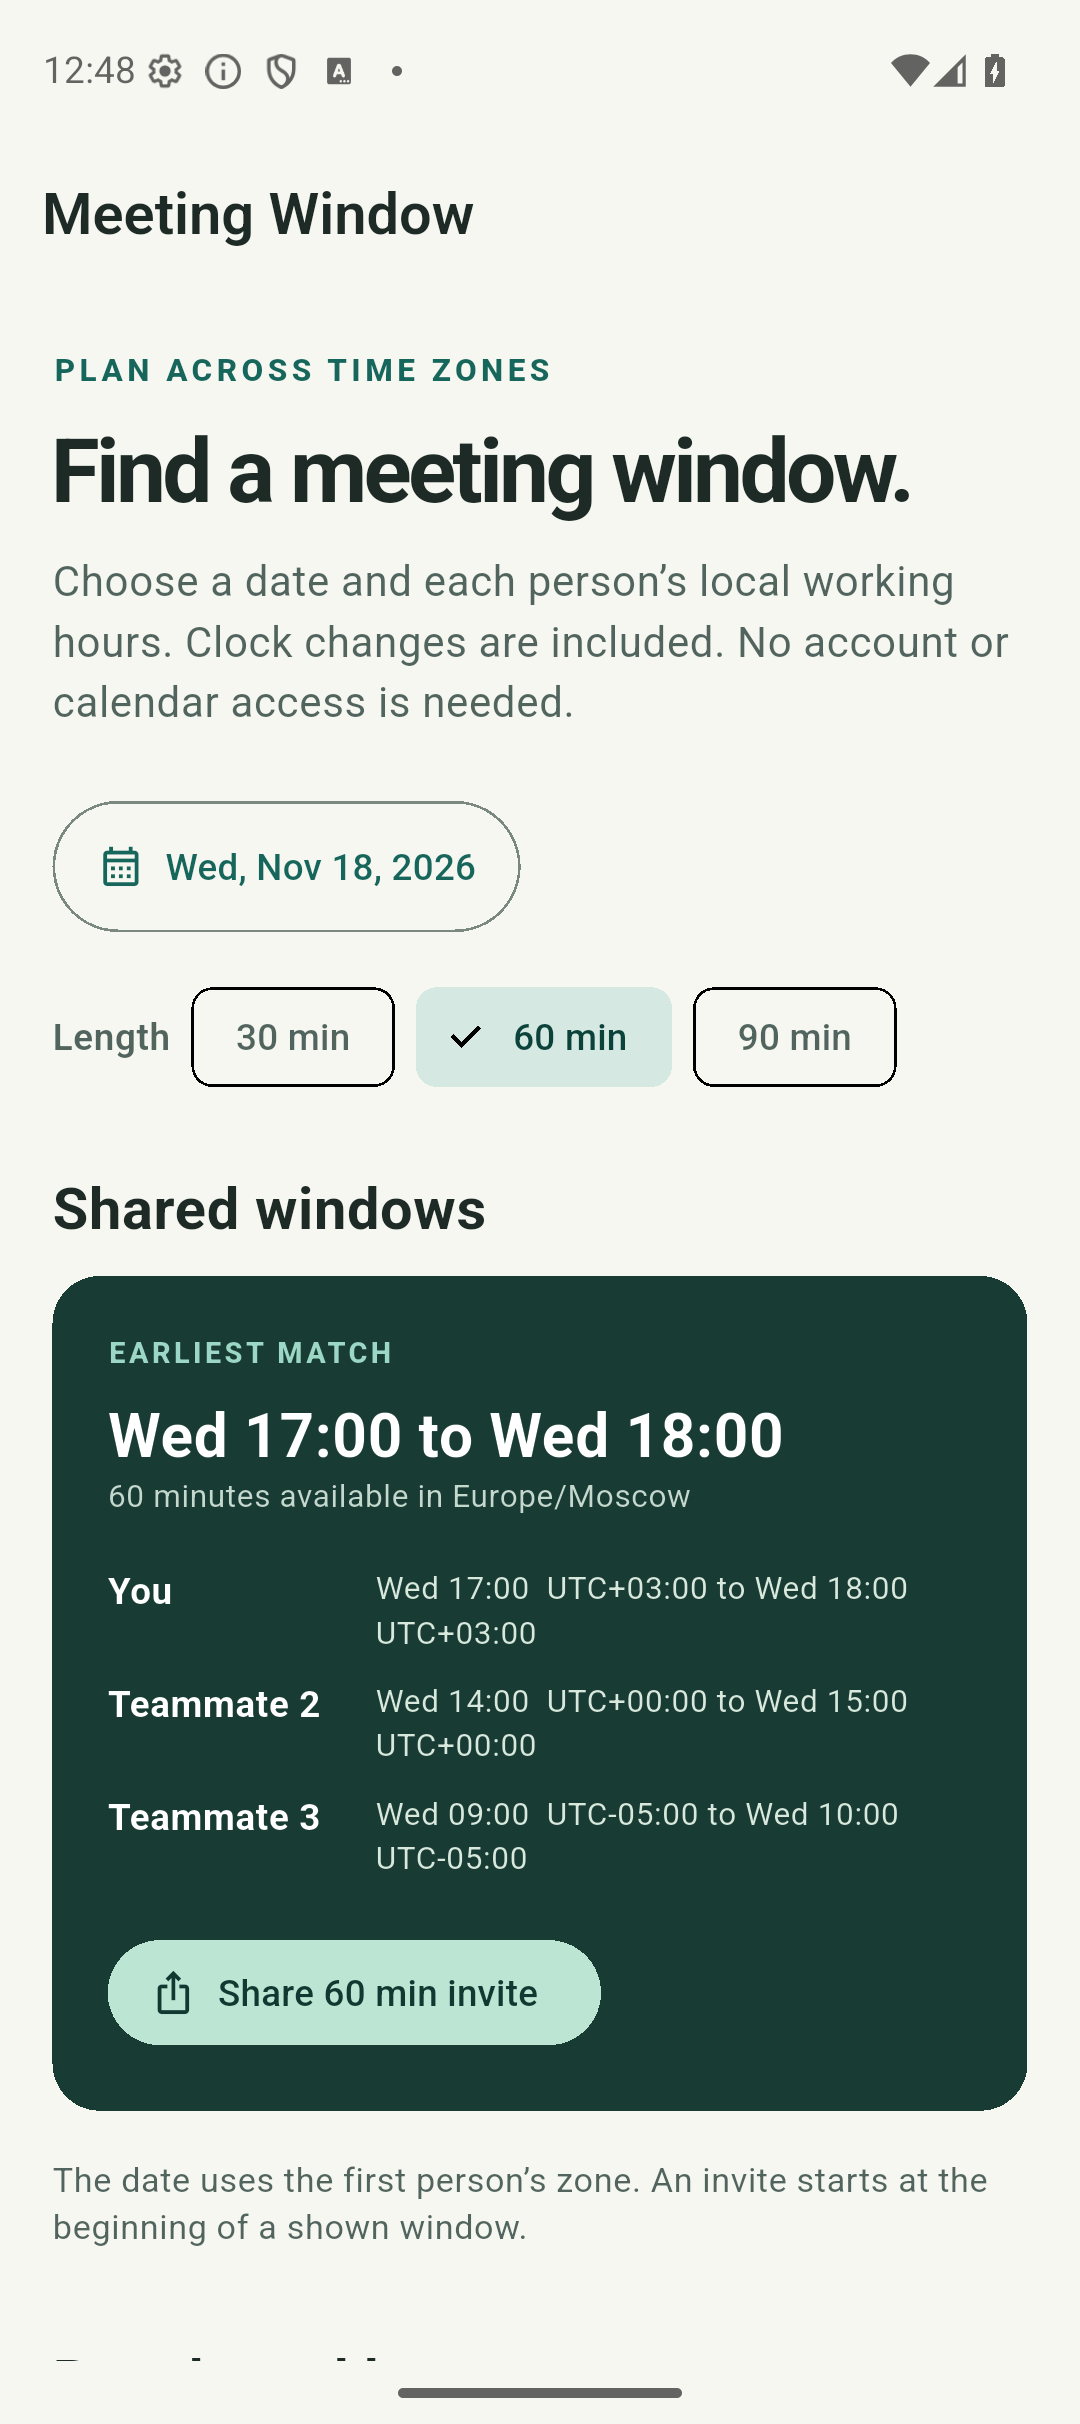
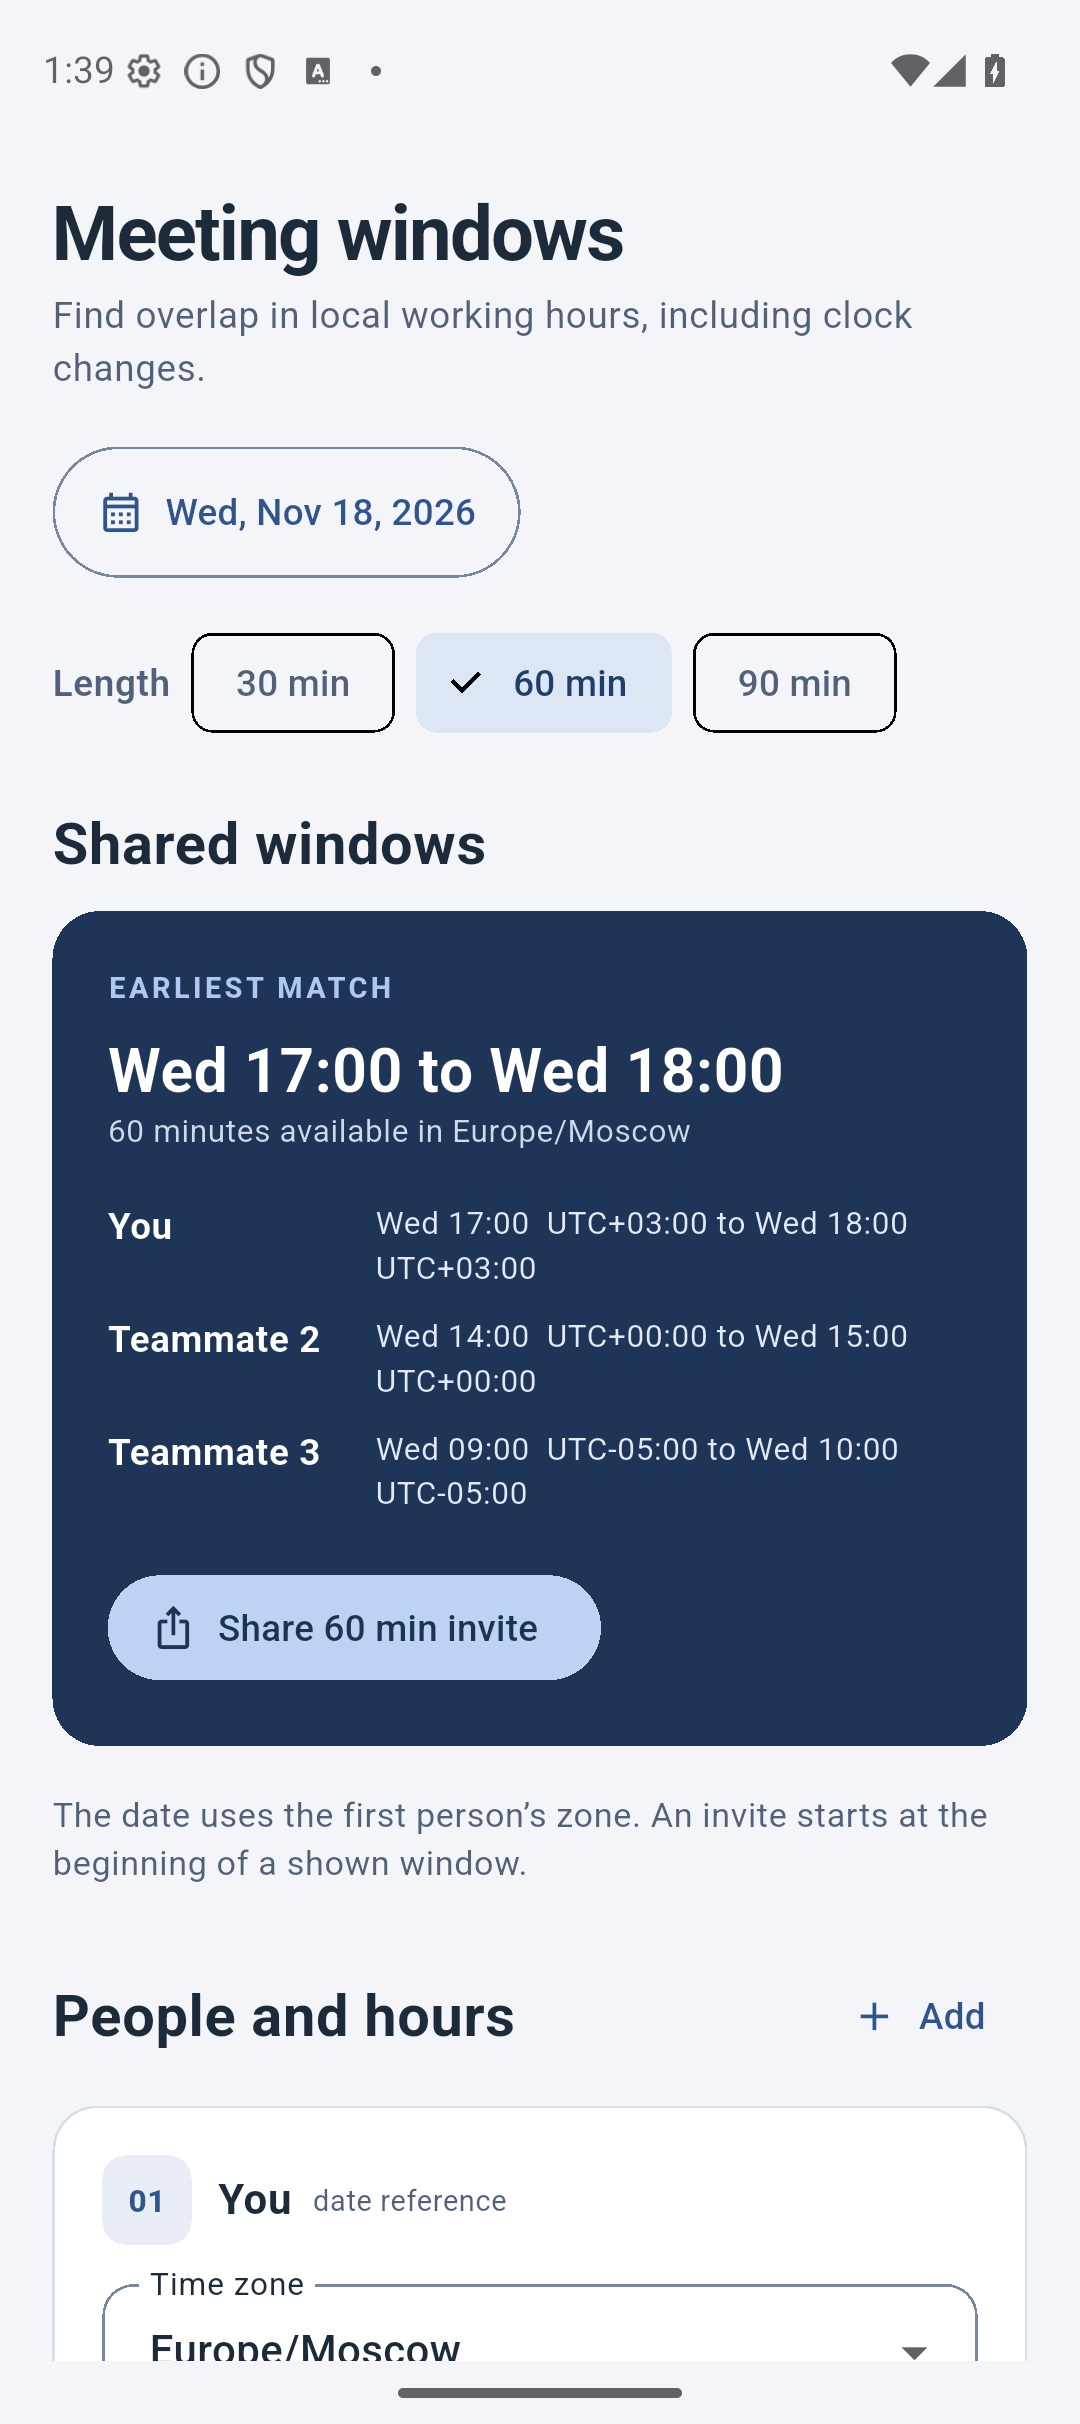
Focus meeting planner on the working window

diff --git a/lib/widgets.dart b/lib/widgets.dart
@@ -2,9 +2,9 @@ import 'package:material_ui/material_ui.dart';
 
 import 'window_finder.dart';
 
-const ink = Color(0xFF1D2A26);
-const muted = Color(0xFF52645E);
-const green = Color(0xFF17665B);
+const ink = Color(0xFF1D2A3A);
+const muted = Color(0xFF526179);
+const blue = Color(0xFF31548B);
 
 class PlannerContent extends StatelessWidget {
   const PlannerContent({
@@ -37,41 +37,31 @@ class PlannerContent extends StatelessWidget {
     final wide = MediaQuery.sizeOf(context).width >= 860;
     return SafeArea(
       child: SingleChildScrollView(
-        padding: const EdgeInsets.fromLTRB(20, 22, 20, 60),
+        padding: const EdgeInsets.fromLTRB(20, 18, 20, 60),
         child: Center(
           child: ConstrainedBox(
             constraints: const BoxConstraints(maxWidth: 1120),
             child: Column(
               crossAxisAlignment: CrossAxisAlignment.start,
               children: [
-                const Text(
-                  'PLAN ACROSS TIME ZONES',
-                  style: TextStyle(
-                    fontSize: 12,
-                    letterSpacing: 1.7,
-                    fontWeight: FontWeight.w800,
-                    color: green,
-                  ),
-                ),
-                const SizedBox(height: 12),
                 Text(
-                  'Find a meeting window.',
+                  'Meeting windows',
                   style: TextStyle(
-                    fontSize: wide ? 48 : 34,
-                    height: 1.08,
-                    letterSpacing: -1.4,
+                    fontSize: wide ? 34 : 29,
+                    height: 1.15,
+                    letterSpacing: -.7,
                     fontWeight: FontWeight.w700,
                     color: ink,
                   ),
                 ),
-                const SizedBox(height: 12),
+                const SizedBox(height: 5),
                 const Text(
-                  'Choose a date and each person’s local working hours. Clock changes are included. No account or calendar access is needed.',
-                  style: TextStyle(fontSize: 16, height: 1.45, color: muted),
+                  'Find overlap in local working hours, including clock changes.',
+                  style: TextStyle(fontSize: 14, height: 1.4, color: muted),
                 ),
-                const SizedBox(height: 26),
+                const SizedBox(height: 20),
                 _controls(),
-                const SizedBox(height: 26),
+                const SizedBox(height: 22),
                 if (wide)
                   Row(
                     crossAxisAlignment: CrossAxisAlignment.start,
@@ -141,9 +131,9 @@ class PlannerContent extends StatelessWidget {
                 label: Text('$length min'),
                 selected: length == minutes,
                 onSelected: (_) => onChangeLength(length),
-                selectedColor: const Color(0xFFD5E9E2),
+                selectedColor: const Color(0xFFDCE6F5),
                 labelStyle: TextStyle(
-                  color: length == minutes ? const Color(0xFF0B423A) : muted,
+                  color: length == minutes ? const Color(0xFF203E6A) : muted,
                 ),
               ),
           ],
@@ -201,7 +191,7 @@ class PlannerContent extends StatelessWidget {
       decoration: BoxDecoration(
         color: Colors.white,
         borderRadius: BorderRadius.circular(17),
-        border: Border.all(color: const Color(0xFFD9E1DA)),
+        border: Border.all(color: const Color(0xFFD8DFE8)),
       ),
       child: Column(
         crossAxisAlignment: CrossAxisAlignment.start,
@@ -213,7 +203,7 @@ class PlannerContent extends StatelessWidget {
                 height: 34,
                 alignment: Alignment.center,
                 decoration: BoxDecoration(
-                  color: const Color(0xFFE6EFE9),
+                  color: const Color(0xFFE9EEF6),
                   borderRadius: BorderRadius.circular(9),
                 ),
                 child: Text(
@@ -221,7 +211,7 @@ class PlannerContent extends StatelessWidget {
                   style: const TextStyle(
                     fontSize: 12,
                     fontWeight: FontWeight.w800,
-                    color: green,
+                    color: blue,
                   ),
                 ),
               ),
@@ -344,13 +334,13 @@ class PlannerContent extends StatelessWidget {
             width: double.infinity,
             padding: const EdgeInsets.all(24),
             decoration: BoxDecoration(
-              color: const Color(0xFFE8EEE8),
+              color: const Color(0xFFE9EEF6),
               borderRadius: BorderRadius.circular(18),
             ),
             child: const Column(
               crossAxisAlignment: CrossAxisAlignment.start,
               children: [
-                Icon(Icons.event_busy_outlined, color: green, size: 30),
+                Icon(Icons.event_busy_outlined, color: blue, size: 30),
                 SizedBox(height: 14),
                 Text(
                   'No shared time on this date',
@@ -388,9 +378,9 @@ class PlannerContent extends StatelessWidget {
       width: double.infinity,
       padding: const EdgeInsets.all(21),
       decoration: BoxDecoration(
-        color: first ? const Color(0xFF183B34) : Colors.white,
+        color: first ? const Color(0xFF1F3557) : Colors.white,
         borderRadius: BorderRadius.circular(18),
-        border: first ? null : Border.all(color: const Color(0xFFD9E1DA)),
+        border: first ? null : Border.all(color: const Color(0xFFD8DFE8)),
       ),
       child: DefaultTextStyle.merge(
         style: TextStyle(color: first ? Colors.white : ink),
@@ -403,7 +393,7 @@ class PlannerContent extends StatelessWidget {
                 fontSize: 11,
                 letterSpacing: 1.3,
                 fontWeight: FontWeight.w800,
-                color: first ? const Color(0xFF9BD7C4) : green,
+                color: first ? const Color(0xFFAEC8F2) : blue,
               ),
             ),
             const SizedBox(height: 10),
@@ -419,7 +409,7 @@ class PlannerContent extends StatelessWidget {
               '${window.length.inMinutes} minutes available in $reference',
               style: TextStyle(
                 fontSize: 12,
-                color: first ? const Color(0xFFC4D8CE) : muted,
+                color: first ? const Color(0xFFCDDAEC) : muted,
               ),
             ),
             const SizedBox(height: 18),
@@ -442,7 +432,7 @@ class PlannerContent extends StatelessWidget {
                         style: TextStyle(
                           fontSize: 12,
                           height: 1.4,
-                          color: first ? const Color(0xFFD8E8DD) : muted,
+                          color: first ? const Color(0xFFE1E9F4) : muted,
                         ),
                       ),
                     ),
@@ -455,8 +445,8 @@ class PlannerContent extends StatelessWidget {
               icon: const Icon(Icons.ios_share_outlined, size: 18),
               label: Text('Share $minutes min invite'),
               style: FilledButton.styleFrom(
-                backgroundColor: first ? const Color(0xFFBCE5D3) : green,
-                foregroundColor: first ? const Color(0xFF103A31) : Colors.white,
+                backgroundColor: first ? const Color(0xFFBED3F3) : blue,
+                foregroundColor: first ? const Color(0xFF183558) : Colors.white,
               ),
             ),
           ],

diff --git a/lib/main.dart b/lib/main.dart
@@ -26,20 +26,20 @@ class MeetingWindowApp extends StatelessWidget {
       debugShowCheckedModeBanner: false,
       theme: ThemeData(
         useMaterial3: true,
-        scaffoldBackgroundColor: const Color(0xFFF7F7F2),
+        scaffoldBackgroundColor: const Color(0xFFF3F5F8),
         colorScheme: const ColorScheme.light(
-          primary: Color(0xFF17665B),
+          primary: Color(0xFF31548B),
           onPrimary: Colors.white,
-          primaryContainer: Color(0xFFD5E9E2),
-          onPrimaryContainer: Color(0xFF0B423A),
-          secondary: Color(0xFF93613F),
-          surface: Color(0xFFF7F7F2),
-          onSurface: Color(0xFF1D2A26),
-          outline: Color(0xFF7A8880),
+          primaryContainer: Color(0xFFDCE6F5),
+          onPrimaryContainer: Color(0xFF203E6A),
+          secondary: Color(0xFF6D5B83),
+          surface: Color(0xFFF3F5F8),
+          onSurface: Color(0xFF1D2A3A),
+          outline: Color(0xFF78879B),
         ),
         appBarTheme: const AppBarTheme(
-          backgroundColor: Color(0xFFF7F7F2),
-          foregroundColor: Color(0xFF1D2A26),
+          backgroundColor: Color(0xFFF3F5F8),
+          foregroundColor: Color(0xFF1D2A3A),
         ),
         inputDecorationTheme: InputDecorationTheme(
           border: OutlineInputBorder(borderRadius: BorderRadius.circular(12)),
@@ -191,12 +191,6 @@ class _PlannerPageState extends State<PlannerPage> {
       meetingLength: Duration(minutes: minutes),
     );
     return Scaffold(
-      appBar: AppBar(
-        title: const Text(
-          'Meeting Window',
-          style: TextStyle(fontWeight: FontWeight.w600),
-        ),
-      ),
       body: PlannerContent(
         date: date,
         minutes: minutes,

diff --git a/tools/build_icons.py b/tools/build_icons.py
@@ -10,9 +10,9 @@ from PIL import Image, ImageChops, ImageDraw
 
 ROOT = Path(__file__).resolve().parents[1]
 SIZE = 1024
-BACKGROUND = (24, 59, 52, 255)
-RING = (245, 249, 244, 255)
-OVERLAP = (157, 215, 196, 255)
+BACKGROUND = (31, 53, 87, 255)
+RING = (244, 247, 251, 255)
+OVERLAP = (174, 200, 242, 255)
 
 
 def draw_icon() -> Image.Image:
